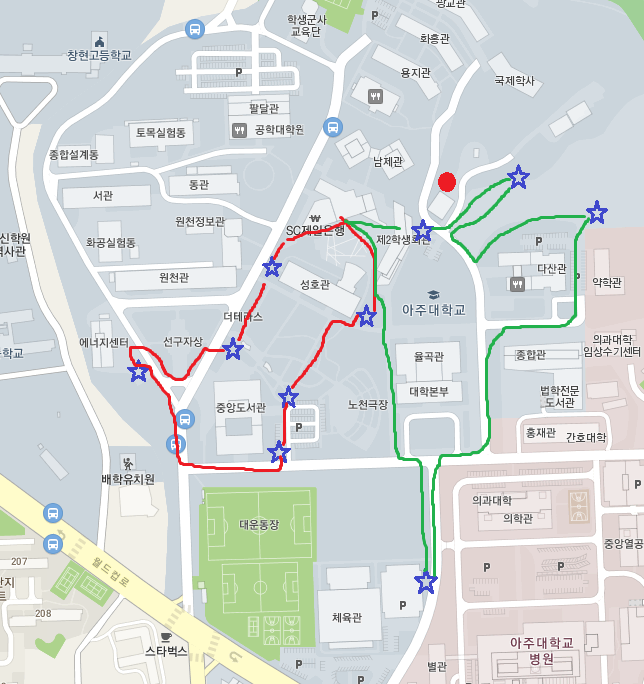
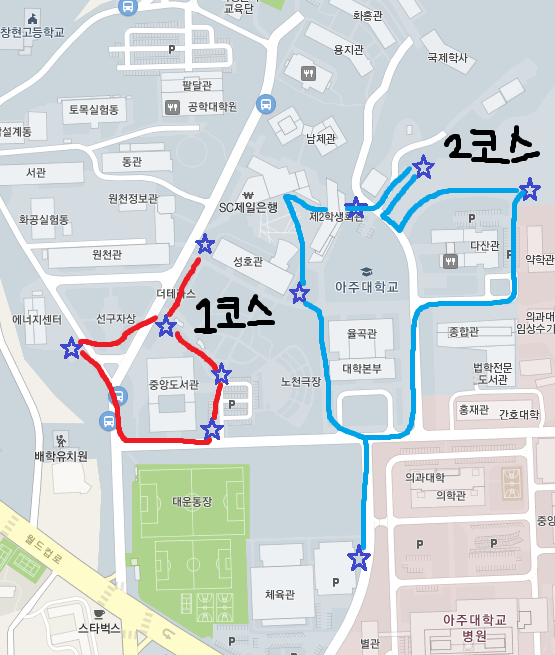
map update

diff --git a/index.html b/index.html
@@ -1,1 +1,1 @@
-<html> <head> <title>아주대학교 고양이는 미유미유</title> <link rel="shortcut icon" type="image/x-icon" href="/ajoumeyoumeow/Icons/Resized/meyoumeow.ico" /> <link rel="stylesheet" href="/ajoumeyoumeow/Resources/alertify.core.css" /> <link rel="stylesheet" href="/ajoumeyoumeow/Resources/alertify.default.css" id="toggleCSS" /> <link rel="stylesheet" href="/ajoumeyoumeow/Resources/main.min.css" /> <meta charset="utf-8"> <meta property="og:title" content="아주대학교 미유미유"/> <meta property="og:url" content="https://luftaquila.github.io/ajoumeyoumeow/"/> <meta property="og:image" content="https://luftaquila.github.io/ajoumeyoumeow/Icons/%EB%AF%B8%EC%9C%A0%EB%AF%B8%EC%9C%A0.png"/> <meta property="og:description" content="아주대학교 고양이는 미유미유"/> <meta name="google-site-verification" content="LdumQ1csatc-sergk4eQ5nBhKjcnisZ18Bo8RjRBxKo"/> <meta name="naver-site-verification" content="f3183dc84e33039873fc22ec89ee6b402fe3c54d"/> <meta name="viewport" content="width=device-width, initial-scale=1.0"/> <meta http-equiv="Content-Type" content="text/html"> <script async src="https://www.googletagmanager.com/gtag/js?id=UA-119383265-1"></script> <script>window.dataLayer=window.dataLayer||[];function gtag(){dataLayer.push(arguments)}gtag("js",new Date());gtag("config","UA-119383265-1");</script> </head> <body> <style type="text/css"></style> <div class="container"> <ul class="tabs"> <li class="tab-link current" data-tab="tab-1">평일</li> <li class="tab-link" data-tab="tab-2" id="tab_two">주말</li> <li class="tab-link" data-tab="tab-3">급식 신청</li> <button onclick="load()" style="float:right;padding:.5rem .8rem;cursor:pointer;font-size:.9rem">새로고침</button> </ul> <div id="tab-1" class="tab-content current"> <div class="ritz grid-container" dir="ltr"> <table class="waffle" cellspacing="0" cellpadding="0" style="margin:0 auto"> <tbody> <tr style='height:8px'> <th id="0R0" style="height:8px" class="row-headers-background"></th> </tr> <tr style='height:1.65rem'> <th id="0R1" style="height:1.65rem" class="row-headers-background"></th> <td class="s3" dir="ltr" colspan="7" rowspan="2" id="todayDate">Loading...</td> </tr> <tr style='height:1.65rem'> <th id="0R2" style="height:1.65rem" class="row-headers-background"></th> </tr> <tr style='height:1.3rem'> <th id="0R3" style="height:1.3rem" class="row-headers-background"></th> <td class="s5" dir="ltr" colspan="2">이번 주</td> <td class="s6" id="thisWeek_1">00/00(월)</td> <td class="s6" id="thisWeek_2">00/00(월)</td> <td class="s6" id="thisWeek_3">00/00(월)</td> <td class="s6" id="thisWeek_4">00/00(월)</td> <td class="s7" id="thisWeek_5">00/00(월)</td> </tr> <tr style='height:1.3rem'> <th id="0R4" style="height:1.3rem" class="row-headers-background"></th> <td class="s5" dir="ltr" colspan="2" rowspan="2">1코스</td> <td class="s8" dir="ltr" id="thisWeek_d1_1"></td> <td class="s8" dir="ltr" id="thisWeek_d2_1"></td> <td class="s8" dir="ltr" id="thisWeek_d3_1"></td> <td class="s8" dir="ltr" id="thisWeek_d4_1"></td> <td class="s9" dir="ltr" id="thisWeek_d5_1"></td> </tr> <tr style='height:1.3rem'> <th id="0R5" style="height:1.3rem" class="row-headers-background"></th> <td class="s10" dir="ltr" id="thisWeek_d1_2"></td> <td class="s10" dir="ltr" id="thisWeek_d2_2"></td> <td class="s10" dir="ltr" id="thisWeek_d3_2"></td> <td class="s10" dir="ltr" id="thisWeek_d4_2"></td> <td class="s11" dir="ltr" id="thisWeek_d5_2"></td> </tr> <tr style='height:1.3rem'> <th id="0R6" style="height:1.3rem" class="row-headers-background"></th> <td class="s12" dir="ltr" colspan="2" rowspan="2">2코스</td> <td class="s8" dir="ltr" id="thisWeek_s1_1"></td> <td class="s8" dir="ltr" id="thisWeek_s2_1"></td> <td class="s8" dir="ltr" id="thisWeek_s3_1"></td> <td class="s8" dir="ltr" id="thisWeek_s4_1"></td> <td class="s9" dir="ltr" id="thisWeek_s5_1"></td> </tr> <tr style='height:1.3rem'> <th id="0R7" style="height:1.3rem" class="row-headers-background"></th> <td class="s13" dir="ltr" id="thisWeek_s1_2"></td> <td class="s13" dir="ltr" id="thisWeek_s2_2"></td> <td class="s13" dir="ltr" id="thisWeek_s3_2"></td> <td class="s13" dir="ltr" id="thisWeek_s4_2"></td> <td class="s14" dir="ltr" id="thisWeek_s5_2"></td> </tr> <tr style='height:1.3rem'> <th id="0R8" style="height:1.3rem" class="row-headers-background"></th> <td class="s15" dir="ltr" colspan="2">다음 주</td> <td class="s16" id="nextWeek_1"></td> <td class="s16" id="nextWeek_2"></td> <td class="s16" id="nextWeek_3"></td> <td class="s16" id="nextWeek_4"></td> <td class="s17" id="nextWeek_5"></td> </tr> <tr style='height:1.3rem'> <th id="0R9" style="height:1.3rem" class="row-headers-background"></th> <td class="s15" dir="ltr" colspan="2" rowspan="2">1코스</td> <td class="s8" dir="ltr" id="nextWeek_d1_1"></td> <td class="s8" dir="ltr" id="nextWeek_d2_1"></td> <td class="s8" dir="ltr" id="nextWeek_d3_1"></td> <td class="s8" dir="ltr" id="nextWeek_d4_1"></td> <td class="s9" dir="ltr" id="nextWeek_d5_1"></td> </tr> <tr style='height:1.3rem'> <th id="0R10" style="height:1.3rem" class="row-headers-background"></th> <td class="s10" dir="ltr" id="nextWeek_d1_2"></td> <td class="s10" dir="ltr" id="nextWeek_d2_2"></td> <td class="s10" dir="ltr" id="nextWeek_d3_2"></td> <td class="s10" dir="ltr" id="nextWeek_d4_2"></td> <td class="s11" dir="ltr" id="nextWeek_d5_2"></td> </tr> <tr style='height:1.3rem'> <th id="0R11" style="height:1.3rem" class="row-headers-background"></th> <td class="s18" dir="ltr" colspan="2" rowspan="2">2코스</td> <td class="s8" dir="ltr" id="nextWeek_s1_1"></td> <td class="s8" dir="ltr" id="nextWeek_s2_1"></td> <td class="s8" dir="ltr" id="nextWeek_s3_1"></td> <td class="s8" dir="ltr" id="nextWeek_s4_1"></td> <td class="s9" dir="ltr" id="nextWeek_s5_1"></td> </tr> <tr style='height:1.3rem'> <th id="0R12" style="height:1.3rem" class="row-headers-background"></th> <td class="s13" dir="ltr" id="nextWeek_s1_2"></td> <td class="s13" dir="ltr" id="nextWeek_s2_2"></td> <td class="s13" dir="ltr" id="nextWeek_s3_2"></td> <td class="s13" dir="ltr" id="nextWeek_s4_2"></td> <td class="s14" dir="ltr" id="nextWeek_s5_2"></td> </tr> <tr style='height:1.3rem'> <th id="0R13" style="height:1.3rem" class="row-headers-background"></th> <td class="s19" dir="ltr" colspan="2">셋째 주</td> <td class="s20" id="nextTwoWeek_1"></td> <td class="s20" id="nextTwoWeek_2"></td> <td class="s20" id="nextTwoWeek_3"></td> <td class="s20" id="nextTwoWeek_4"></td> <td class="s21" id="nextTwoWeek_5"></td> </tr> <tr style='height:1.3rem'> <th id="0R14" style="height:1.3rem" class="row-headers-background"></th> <td class="s19" dir="ltr" colspan="2" rowspan="2">1코스</td> <td class="s8" dir="ltr" id="nextTwoWeek_d1_1"></td> <td class="s8" dir="ltr" id="nextTwoWeek_d2_1"></td> <td class="s8" dir="ltr" id="nextTwoWeek_d3_1"></td> <td class="s8" dir="ltr" id="nextTwoWeek_d4_1"></td> <td class="s9" dir="ltr" id="nextTwoWeek_d5_1"></td> </tr> <tr style='height:1.3rem'> <th id="0R15" style="height:1.3rem" class="row-headers-background"></th> <td class="s10" dir="ltr" id="nextTwoWeek_d1_2"></td> <td class="s10" dir="ltr" id="nextTwoWeek_d2_2"></td> <td class="s10" dir="ltr" id="nextTwoWeek_d3_2"></td> <td class="s10" dir="ltr" id="nextTwoWeek_d4_2"></td> <td class="s11" dir="ltr" id="nextTwoWeek_d5_2"></td> </tr> <tr style='height:1.3rem'> <th id="0R16" style="height:1.3rem" class="row-headers-background"></th> <td class="s22" dir="ltr" colspan="2" rowspan="2">2코스</td> <td class="s8" dir="ltr" id="nextTwoWeek_s1_1"></td> <td class="s8" dir="ltr" id="nextTwoWeek_s2_1"></td> <td class="s8" dir="ltr" id="nextTwoWeek_s3_1"></td> <td class="s8" dir="ltr" id="nextTwoWeek_s4_1"></td> <td class="s9" dir="ltr" id="nextTwoWeek_s5_1"></td> </tr> <tr style='height:1.3rem'> <th id="0R17" style="height:1.3rem" class="row-headers-background"></th> <td class="s13" dir="ltr" id="nextTwoWeek_s1_2"></td> <td class="s13" dir="ltr" id="nextTwoWeek_s2_2"></td> <td class="s13" dir="ltr" id="nextTwoWeek_s3_2"></td> <td class="s13" dir="ltr" id="nextTwoWeek_s4_2"></td> <td class="s14" dir="ltr" id="nextTwoWeek_s5_2"></td> </tr> <tr style='height:1.3rem'> <th id="0R18" style="height:1.3rem" class="row-headers-background"></th> <td class="s23" dir="ltr" colspan="2">넷째 주</td> <td class="s24" id="nextThreeWeek_1"></td> <td class="s24" id="nextThreeWeek_2"></td> <td class="s24" id="nextThreeWeek_3"></td> <td class="s24" id="nextThreeWeek_4"></td> <td class="s25" id="nextThreeWeek_5"></td> </tr> <tr style='height:1.3rem'> <th id="0R19" style="height:1.3rem" class="row-headers-background"></th> <td class="s23" colspan="2" rowspan="2">1코스</td> <td class="s26" id="nextThreeWeek_d1_1"></td> <td class="s26" id="nextThreeWeek_d2_1"></td> <td class="s26" id="nextThreeWeek_d3_1"></td> <td class="s26" id="nextThreeWeek_d4_1"></td> <td class="s27" id="nextThreeWeek_d5_1"></td> </tr> <tr style='height:1.3rem'> <th id="0R20" style="height:1.3rem" class="row-headers-background"></th> <td class="s28" id="nextThreeWeek_d1_2"></td> <td class="s28" id="nextThreeWeek_d2_2"></td> <td class="s28" id="nextThreeWeek_d3_2"></td> <td class="s28" id="nextThreeWeek_d4_2"></td> <td class="s29" id="nextThreeWeek_d5_2"></td> </tr> <tr style='height:1.3rem'> <th id="0R21" style="height:1.3rem" class="row-headers-background"></th> <td class="s30" colspan="2" rowspan="2">2코스</td> <td class="s26" id="nextThreeWeek_s1_1"></td> <td class="s26" id="nextThreeWeek_s2_1"></td> <td class="s26" id="nextThreeWeek_s3_1"></td> <td class="s26" id="nextThreeWeek_s4_1"></td> <td class="s27" id="nextThreeWeek_s5_1"></td> </tr> <tr style='height:1.3rem'> <th id="0R22" style="height:1.3rem" class="row-headers-background"></th> <td class="s31" id="nextThreeWeek_s1_2"></td> <td class="s31" id="nextThreeWeek_s2_2"></td> <td class="s31" id="nextThreeWeek_s3_2"></td> <td class="s31" id="nextThreeWeek_s4_2"></td> <td class="s32" id="nextThreeWeek_s5_2"></td> </tr> </tbody> </table> </div> </div> <div id="tab-2" class="tab-content"> <div class="ritz grid-container" dir="ltr"> <table class="waffle" cellspacing="0" cellpadding="0" style="margin:0 auto"> <tbody> <tr style='height:8px'> <th id="0R0" style="height:8px" class="row-headers-background"></th> </tr> <tr style='height:1.65rem'> <th id="0R1" style="height:1.65rem" class="row-headers-background"></th> <td class="s3" dir="ltr" colspan="7" rowspan="2" id="todayDateWeekEnd">Loading...</td> </tr> <tr style='height:1.65rem'> <th id="0R2" style="height:1.65rem" class="row-headers-background"></th> </tr> <tr style='height:1.3rem'> <th id="0R3" style="height:1.3rem" class="row-headers-background"></th> <td class="s5" dir="ltr" colspan="2">이번 주</td> <td class="s6" id="thisWeekEnd_1">00/00(월)</td> <td class="s7" id="thisWeekEnd_2">00/00(월)</td> </tr> <tr style='height:1.3rem'> <th id="0R4" style="height:1.3rem" class="row-headers-background"></th> <td class="s5" dir="ltr" colspan="2" rowspan="2">1코스</td> <td class="s8" dir="ltr" id="thisWeekEnd_d1_1"></td> <td class="s9" dir="ltr" id="thisWeekEnd_d2_1"></td> </tr> <tr style='height:1.3rem'> <th id="0R5" style="height:1.3rem" class="row-headers-background"></th> <td class="s10" dir="ltr" id="thisWeekEnd_d1_2"></td> <td class="s11" dir="ltr" id="thisWeekEnd_d2_2"></td> </tr> <tr style='height:1.3rem'> <th id="0R6" style="height:1.3rem" class="row-headers-background"></th> <td class="s12" dir="ltr" colspan="2" rowspan="2">2코스</td> <td class="s8" dir="ltr" id="thisWeekEnd_s1_1"></td> <td class="s9" dir="ltr" id="thisWeekEnd_s2_1"></td> </tr> <tr style='height:1.3rem'> <th id="0R7" style="height:1.3rem" class="row-headers-background"></th> <td class="s13" dir="ltr" id="thisWeekEnd_s1_2"></td> <td class="s14" dir="ltr" id="thisWeekEnd_s2_2"></td> </tr> <tr style='height:1.3rem'> <th id="0R8" style="height:1.3rem" class="row-headers-background"></th> <td class="s15" dir="ltr" colspan="2">다음 주</td> <td class="s16" id="nextWeekEnd_1"></td> <td class="s17" id="nextWeekEnd_2"></td> </tr> <tr style='height:1.3rem'> <th id="0R9" style="height:1.3rem" class="row-headers-background"></th> <td class="s15" dir="ltr" colspan="2" rowspan="2">1코스</td> <td class="s8" dir="ltr" id="nextWeekEnd_d1_1"></td> <td class="s9" dir="ltr" id="nextWeekEnd_d2_1"></td> </tr> <tr style='height:1.3rem'> <th id="0R10" style="height:1.3rem" class="row-headers-background"></th> <td class="s10" dir="ltr" id="nextWeekEnd_d1_2"></td> <td class="s11" dir="ltr" id="nextWeekEnd_d2_2"></td> </tr> <tr style='height:1.3rem'> <th id="0R11" style="height:1.3rem" class="row-headers-background"></th> <td class="s18" dir="ltr" colspan="2" rowspan="2">2코스</td> <td class="s8" dir="ltr" id="nextWeekEnd_s1_1"></td> <td class="s9" dir="ltr" id="nextWeekEnd_s2_1"></td> </tr> <tr style='height:1.3rem'> <th id="0R12" style="height:1.3rem" class="row-headers-background"></th> <td class="s13" dir="ltr" id="nextWeekEnd_s1_2"></td> <td class="s14" dir="ltr" id="nextWeekEnd_s2_2"></td> </tr> <tr style='height:1.3rem'> <th id="0R13" style="height:1.3rem" class="row-headers-background"></th> <td class="s19" dir="ltr" colspan="2">셋째 주</td> <td class="s20" id="nextTwoWeekEnd_1"></td> <td class="s21" id="nextTwoWeekEnd_2"></td> </tr> <tr style='height:1.3rem'> <th id="0R14" style="height:1.3rem" class="row-headers-background"></th> <td class="s19" dir="ltr" colspan="2" rowspan="2">1코스</td> <td class="s8" dir="ltr" id="nextTwoWeekEnd_d1_1"></td> <td class="s9" dir="ltr" id="nextTwoWeekEnd_d2_1"></td> </tr> <tr style='height:1.3rem'> <th id="0R15" style="height:1.3rem" class="row-headers-background"></th> <td class="s10" dir="ltr" id="nextTwoWeekEnd_d1_2"></td> <td class="s11" dir="ltr" id="nextTwoWeekEnd_d2_2"></td> </tr> <tr style='height:1.3rem'> <th id="0R16" style="height:1.3rem" class="row-headers-background"></th> <td class="s22" dir="ltr" colspan="2" rowspan="2">2코스</td> <td class="s8" dir="ltr" id="nextTwoWeekEnd_s1_1"></td> <td class="s9" dir="ltr" id="nextTwoWeekEnd_s2_1"></td> </tr> <tr style='height:1.3rem'> <th id="0R17" style="height:1.3rem" class="row-headers-background"></th> <td class="s13" dir="ltr" id="nextTwoWeekEnd_s1_2"></td> <td class="s14" dir="ltr" id="nextTwoWeekEnd_s2_2"></td> </tr> <tr style='height:1.3rem'> <th id="0R18" style="height:1.3rem" class="row-headers-background"></th> <td class="s23" dir="ltr" colspan="2">넷째 주</td> <td class="s24" id="nextThreeWeekEnd_1"></td> <td class="s25" id="nextThreeWeekEnd_2"></td> </tr> <tr style='height:1.3rem'> <th id="0R19" style="height:1.3rem" class="row-headers-background"></th> <td class="s23" colspan="2" rowspan="2">1코스</td> <td class="s26" id="nextThreeWeekEnd_d1_1"></td> <td class="s27" id="nextThreeWeekEnd_d2_1"></td> </tr> <tr style='height:1.3rem'> <th id="0R20" style="height:1.3rem" class="row-headers-background"></th> <td class="s28" id="nextThreeWeekEnd_d1_2"></td> <td class="s29" id="nextThreeWeekEnd_d2_2"></td> </tr> <tr style='height:1.3rem'> <th id="0R21" style="height:1.3rem" class="row-headers-background"></th> <td class="s30" colspan="2" rowspan="2">2코스</td> <td class="s26" id="nextThreeWeekEnd_s1_1"></td> <td class="s27" id="nextThreeWeekEnd_s2_1"></td> </tr> <tr style='height:1.3rem'> <th id="0R22" style="height:1.3rem" class="row-headers-background"></th> <td class="s31" id="nextThreeWeekEnd_s1_2"></td> <td class="s32" id="nextThreeWeekEnd_s2_2"></td> </tr> </tbody> </table> </div> </div> <div id="tab-3" class="tab-content" style="width:100%;text-align:center"> <div id='form' style="width:100%;text-align:center;margin:50 0 20 0"> <form id="DATA"> 이름 : <input id='submitName' type='text' style="width:100px" disabled="true"/><br><span style="line-height:50%"><br></span> 날짜 : <input id="submitDate" type="date" name="submitDate" value="" disabled="true"/><br><span style="line-height:50%"><br></span> <label for='course_1st'><input type='radio' id='course_1st' name='course' value="1코스" disabled="true">1코스</input></label>&nbsp; <label for='course_2nd'><input type='radio' id='course_2nd' name='course' value='2코스' disabled="true">2코스</input></label><br><br> <input id="submit" type="submit" value="신청하기" disabled="true" style="padding:.3rem .8rem"/> </form> </div> <div style="width:96%;height:16rem;margin:20 0 0 0;display:inline-block"></div> </div> <div id="latestUpdate" style="height:1rem;text-align:right;font-size:.7rem;font-family:'Malgun Gothic';margin:5 0 0 0">Loading...</div> <div id='bottomInfo' style="text-align:center;font-size:.813rem;font-family:'Malgun Gothic';margin:17 0 0 0"> <a id='onNoticeClick' href="#" style="color:#0366d6">Notice</a> &nbsp;&nbsp;&nbsp;<a href="/ajoumeyoumeow/statistics" style="color:#0366d6">Statistics</a> &nbsp;&nbsp;&nbsp;<a id='onRankClick' href="#" style="color:#0366d6">Rank</a> &nbsp;&nbsp;&nbsp;<a id='onMapClick' href="#" style="color:#0366d6">Map</a> &nbsp;&nbsp;&nbsp;<a href="https://www.flickr.com/photos/ajoumeow" style="color:#0366d6">Photos</a> &nbsp;&nbsp;&nbsp;<a id='onLogClick' href="#" style="color:#0366d6">Log</a><br> <span style="font-size:0.4rem"><br></span>©2018 LUFT - AQUILA. &nbsp;<a class="ext" href="/ajoumeyoumeow/about.html" style="color:#0366d6">About</a> <br>급식 신청 후 표에 반영되기까지 최대 3분 정도 소요됩니다. </div> </div> <div id="logModal" class="modal"> <div class="modal-content" style="position:relative;height:auto!important;margin:5% auto!important"> <span id="logSpanClose" class="close" style="position:absolute;right:8;top:-3">&times;<br></span> <iframe src="https://docs.google.com/spreadsheets/d/e/2PACX-1vTS42UTV58NdXxJMBIg3ARIVmnGLcMmok7gv0YjyIkH29t1Yk16OidImCYsrtuU1B7f42MhUNQA5kKA/pubhtml?gid=850606151&single=true&widget=true&headers=false" width="100%" height="93%" scrolling="no" style="margin-top:1rem"></iframe><br> </div> </div> <div id="mapModal" class="modal"> <div class="modal-content" style="position:relative;text-align:center;margin:200 auto!important;height:30rem!important"> <span id="mapSpanClose" class="close" style="position:absolute;right:8;top:-3">&times;<br></span> <img src="/ajoumeyoumeow/Icons/map.png" style="width:100%;height:100%"> </div> </div> <div id="mileModal" class="modal"> <div class="modal-content" style="position:relative;height:auto!important;margin:5% auto!important"> <span id="mileSpanClose" class="close" style="position:absolute;right:8;top:-3">&times;<br></span> <iframe src="https://docs.google.com/spreadsheets/d/e/2PACX-1vTy8HCVMBZr1Dz1VYjmgUBNWBTd8Ic45W99vL81L4-sKmq1KZpAmRlEd94jiK3m35ZQmbiqFxEzvWS1/pubhtml?gid=1900667290&amp;single=true&amp;widget=true&amp;headers=false" width="100%" height="93%" scrolling="no" style="margin-top:1rem"></iframe><br> </div> </div> <div id="rankModal" class="modal"> <div class="modal-content" style="position:relative;text-align:center"> <span id="rankSpanClose" class="close" style="position:absolute;right:8;top:-3">&times;</span> <div style="position:absolute;height:19rem;top:0;bottom:0;left:0;right:0;margin:auto"> <span style="font-size:1.3rem">☆미유미유 마일리지 랭킹☆</span> <br><br>이번 달 현재까지<br> 1등(<span id='this_t_1'></span>점) : <span id='this_1'></span><br> 2등(<span id='this_t_2'></span>점) : <span id='this_2'></span><br> 3등(<span id='this_t_3'></span>점) : <span id='this_3'></span><br><span style="font-size:.5rem"><br></span> 지난 달<br> 1등(<span id='past_t_1'></span>점) : <span id='past_1'></span><br> 2등(<span id='past_t_2'></span>점) : <span id='past_2'></span><br> 3등(<span id='past_t_3'></span>점) : <span id='past_3'></span><br><span style="font-size:.5rem"><br></span> <a href="#" id="onMileClick" style="color:#0366d6;font-size:.8rem">마일리지 현황 보기</a> </div> <div style="font-size:.8rem;position:absolute;right:8;bottom:5"> <label for="popupBlock"><input type="checkbox" id="popupBlock">앞으로 3일간 보지 않기</input></label> </div> </div> </div> <div id="noticeModal" class="modal"> <div class="modal-content" style="position:relative;text-align:center;margin:10% auto;height:80%"> <span id="noticeSpanClose" class="close" style="position:absolute;right:8;top:-3">&times;</span> <div style="position:relative;height:100%;font-size:.8rem;margin:5 0;display:inline-block"> <span style="font-size:1.3rem;background-color:palegreen">☆공지사항☆</span><br><br> <span style="background-color:aquamarine">[오늘의 사자성어]</span><br> <span style="background-color:lightcyan">업대이투</span> (위태로울 업, 몹쓸 대, 이로울 이, 덮개 투)<br> 위태롭고 몹쓸 코드를 이로운 코드로 덮어씌우다.<br><span style="line-height:70%"><br></span> <span style="background-color:aquamarine">[급식신청 사이트 업데이트 안내]</span><br><span style="line-height:50%"><br></span> 1. 이제 사이트가 마지막으로 신청한 이름을 기억합니다.<br> &nbsp;&nbsp;&nbsp;<span>신청할 때마다 매번 이름을 타이핑하지 않아도 됩니다</span>.<br> 2. <span>아무도 몰랐겠지만 사이트 동작 속도가 0.3초 정도 빨라졌습니다</span>.<br>(뿌듯)<br> 3. 데스크톱 환경에서 팝업 하단부가 잘리는 현상을 해결했습니다.<br><span style="line-height:70%"><br></span> <span style="background-color:aquamarine">[기능 사용법 안내]</span><br><span style="line-height:30%"><br></span> <span style="font-weight:bold">Statistics</span><br> 목록에서 이름을 선택하면 언제 활동했는지 기록을 보여줍니다.<br><span style="line-height:50%"><br></span> <span style="font-weight:bold">Rank</span><br> 마일리지 순위표를 보여줍니다. 사이트 로딩 시 팝업됩니다.<br> 마일리지 현황을 누르면 현재 내 마일리지를 볼 수 있습니다.<br><span style="line-height:50%"><br></span> <span style="font-weight:bold">Map</span><br> 코스가 가물가물할 때 급식 코스의 간단한 약도를 보여줍니다.<br><span style="line-height:50%"><br></span> <span style="font-weight:bold">Notice</span> : 이 공지 창을 다시 띄워줍니다.<br> <span style="font-weight:bold">Photos</span> : 학교 고양이 사진이 잔뜩 있습니다!<br> <span style="font-weight:bold">Log</span> : 급식 신청 기록 로그입니다.<br> </div> <div style="font-size:.8rem;position:absolute;right:8;bottom:5"> <label for="noticeBlock"><input type="checkbox" id="noticeBlock">다시 보지 않기</input></label> </div> </div> </div> <script src="https://code.jquery.com/jquery-3.3.1.min.js" integrity="sha256-FgpCb/KJQlLNfOu91ta32o/NMZxltwRo8QtmkMRdAu8=" crossorigin="anonymous"></script> <script src="https://cdn.jsdelivr.net/npm/js-cookie@2/src/js.cookie.min.js"></script> <script src='/ajoumeyoumeow/Resources/alertify.min.js'></script> <script src='/ajoumeyoumeow/Resources/main.min.js'></script> <script type="text/javascript" src="//wcs.naver.net/wcslog.js"></script> <script type="text/javascript">if(!wcs_add){var wcs_add={}}wcs_add.wa="89774287089c10";wcs_do();</script> </body> </html>
+점검 중입니다.(찡긋)

diff --git a/ajouMeyouMeow.html b/ajouMeyouMeow.html
@@ -2,8 +2,8 @@
   <head>
     <title>아주대학교 고양이는 미유미유</title>
     <link rel="shortcut icon" type="image/x-icon" href="/ajoumeyoumeow/Icons/Resized/meyoumeow.ico" />
-    <link rel="stylesheet" href="/ajoumeyoumeow/Resources/alertify.core.css" />
-    <link rel="stylesheet" href="/ajoumeyoumeow/Resources/alertify.default.css" id="toggleCSS" />
+    <link rel="stylesheet" href="/ajoumeyoumeow/Resources/alertify/alertify.core.css" />
+    <link rel="stylesheet" href="/ajoumeyoumeow/Resources/alertify/alertify.default.css" id="toggleCSS" />
     <link rel="stylesheet" href="/ajoumeyoumeow/Resources/main.min.css" />
     <meta charset="utf-8">
     <meta property="og:title" content="아주대학교 미유미유"/>
@@ -384,7 +384,7 @@
       </div>
     </div>
     <div id="mapModal" class="modal">
-      <div class="modal-content" style="position: relative; text-align: center; margin: 200 auto!important; height: 30rem!important">
+      <div class="modal-content" style="position: relative; text-align: center">
         <span id="mapSpanClose" class="close" style="position: absolute; right: 8; top: -3;">&times;<br></span>
         <img src="/ajoumeyoumeow/Icons/map.png" style="width:100%; height:100%">
       </div>
@@ -447,7 +447,7 @@
     </div>
     <script src="https://code.jquery.com/jquery-3.3.1.min.js" integrity="sha256-FgpCb/KJQlLNfOu91ta32o/NMZxltwRo8QtmkMRdAu8=" crossorigin="anonymous"></script>
     <script src="https://cdn.jsdelivr.net/npm/js-cookie@2/src/js.cookie.min.js"></script>
-    <script src='/ajoumeyoumeow/Resources/alertify.min.js'></script>
+    <script src='/ajoumeyoumeow/Resources/alertify/alertify.min.js'></script>
     <script src='/ajoumeyoumeow/Resources/main.min.js'></script>
     <script type="text/javascript" src="//wcs.naver.net/wcslog.js"></script>
     <script type="text/javascript">
